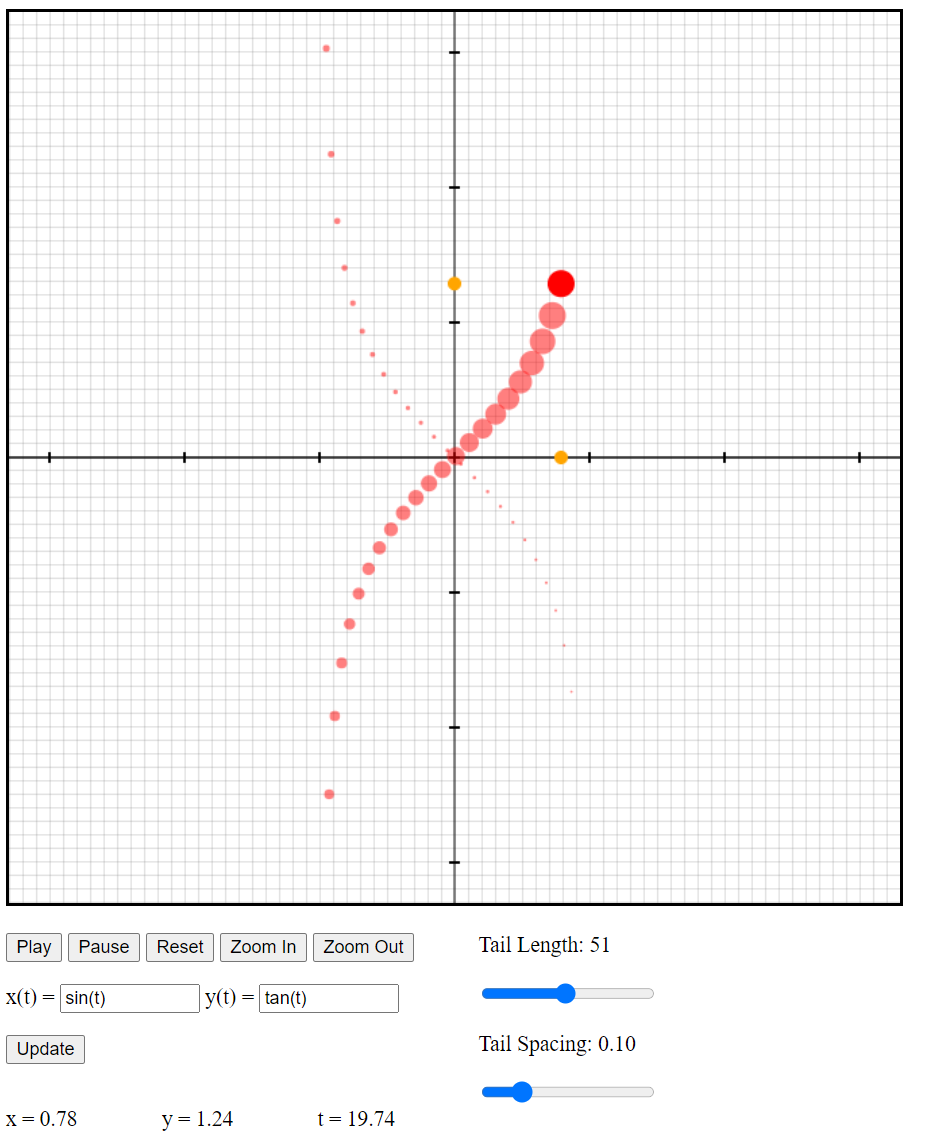
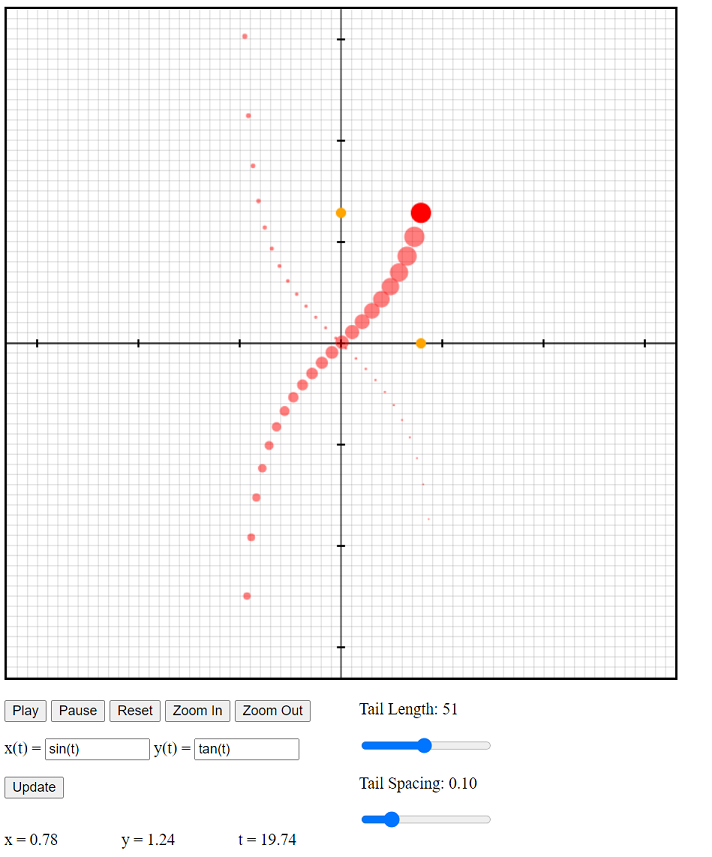
smaller screenshot

diff --git a/README.md b/README.md
@@ -1,3 +1,5 @@
 # 2d-parametric-plot
 
 A simple 2-dimensional parametric equation plotter (I built for one of my year 11 math students)
+
+![alt screenshot](screenshot.png "Logo Title Text 1")
